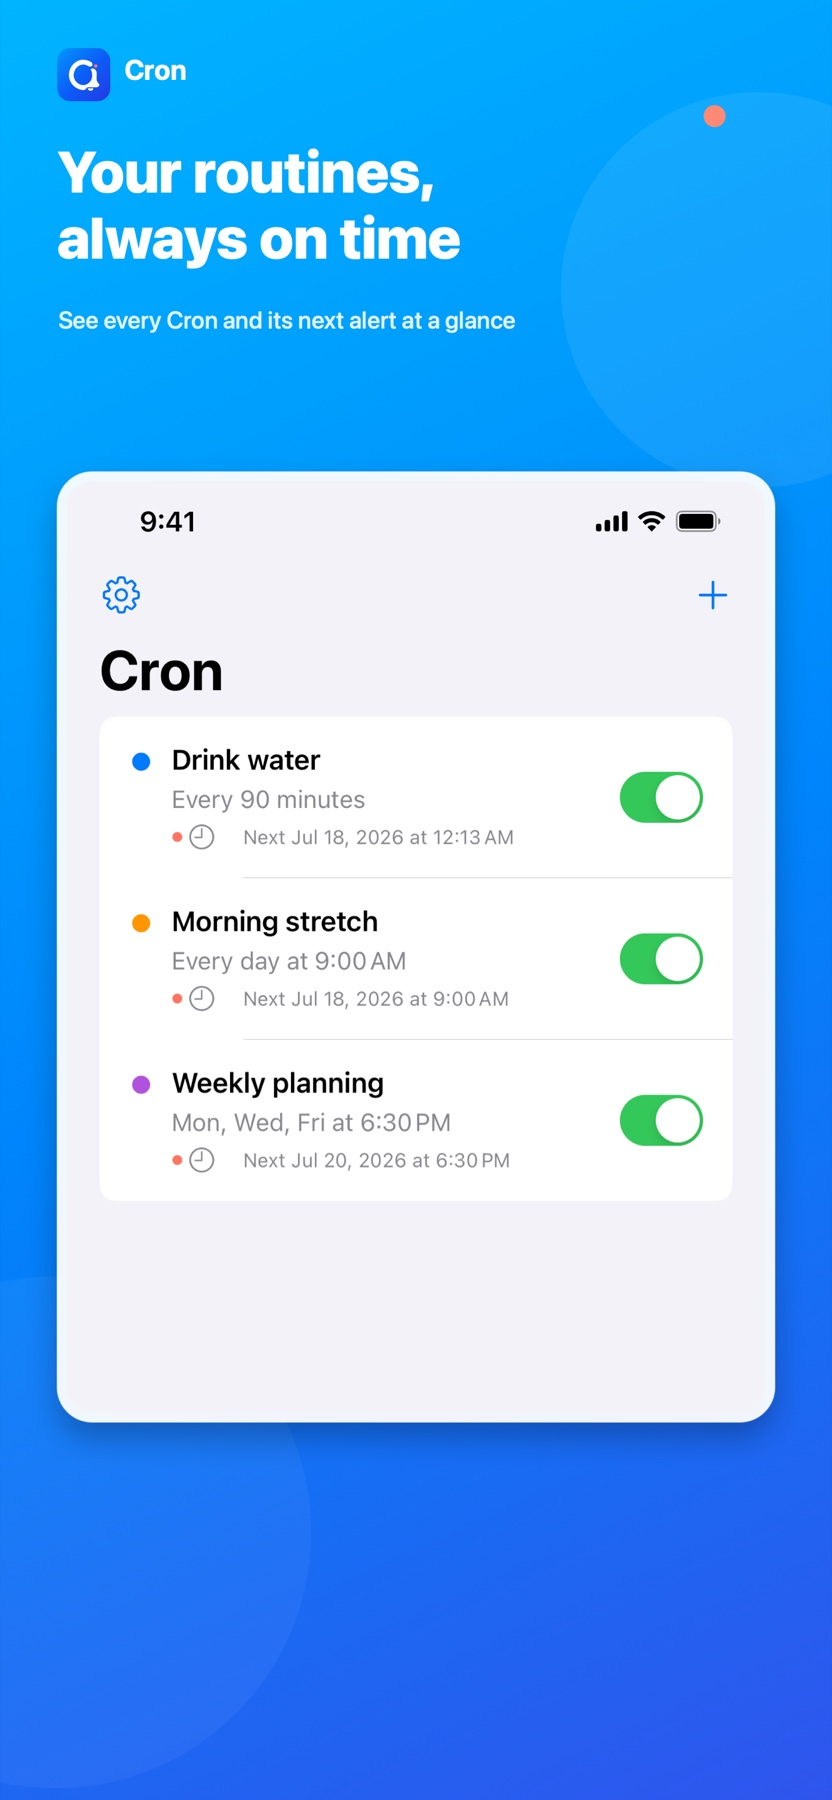
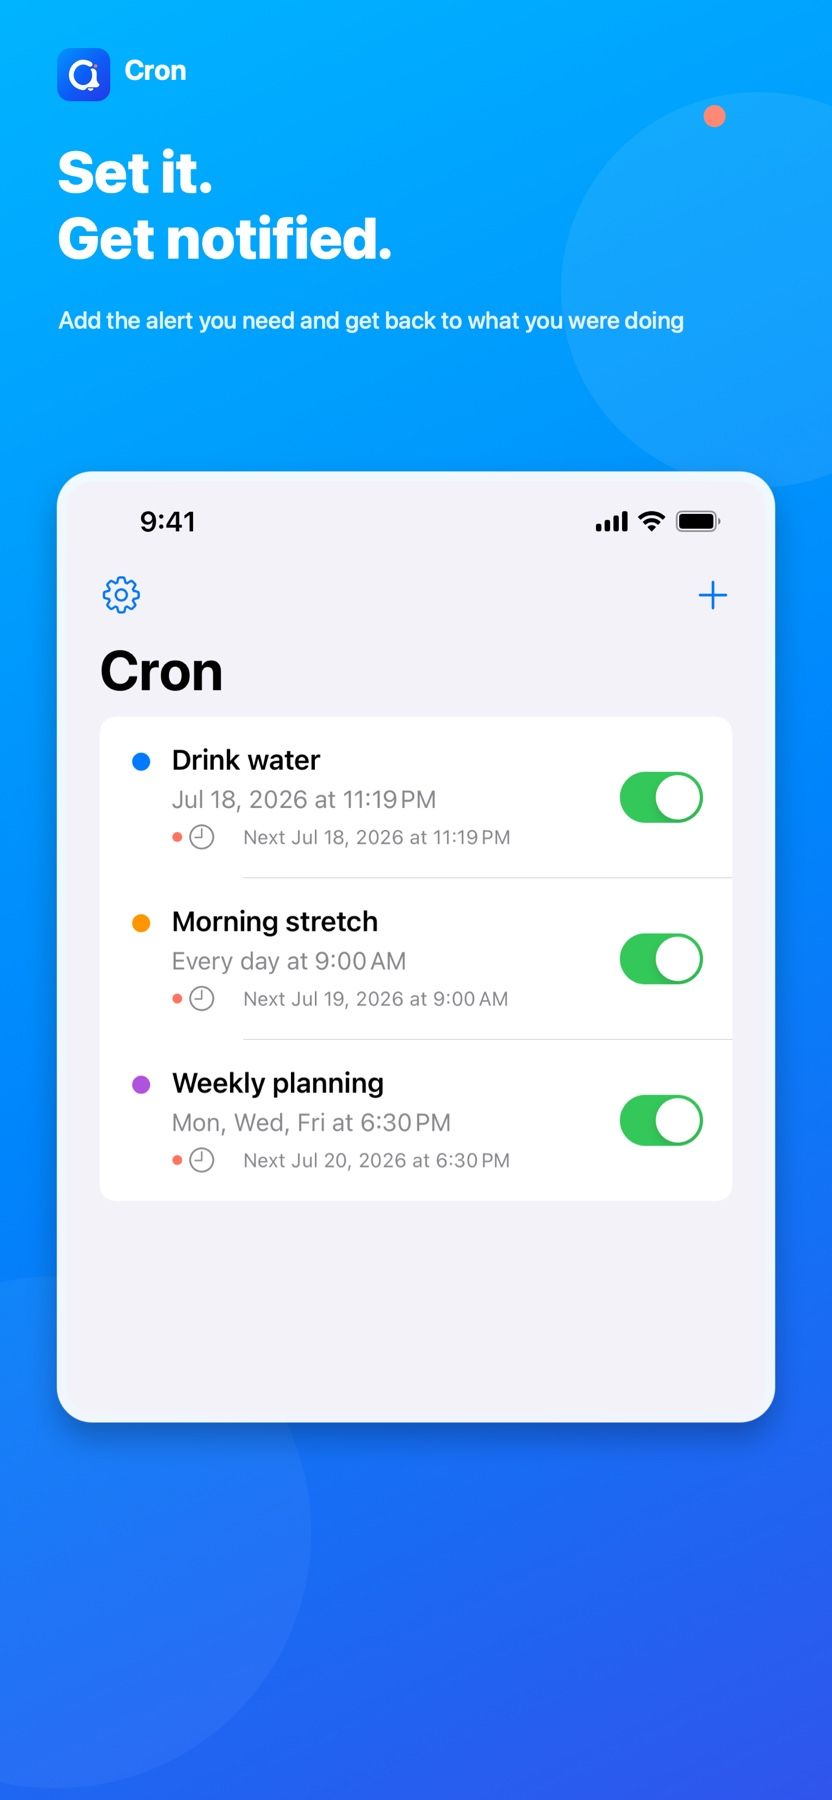
feat: clarify Cron simple alert messaging

Changed region(s): [[0.0625, 0.0622, 0.8125, 0.1867], [0.2188, 0.4356, 0.5312, 0.4667], [0.5625, 0.4356, 0.5938, 0.4667]]

diff --git a/cron/index.html b/cron/index.html
@@ -3,19 +3,19 @@
 <head>
   <meta charset="UTF-8">
   <meta name="viewport" content="width=device-width, initial-scale=1.0">
-  <meta name="description" content="Cron is a lightweight repeat reminder for interval, hourly, daily, weekday, and one-time alerts. See the next alert before you save.">
-  <meta name="keywords" content="repeat reminder, recurring alarm, routine timer, interval reminder, hourly reminder, daily reminder, weekday reminder">
+  <meta name="description" content="Cron is a simple reminder for iPhone. Add a name, choose a time, and get one clear alert. Repeat only when you need it.">
+  <meta name="keywords" content="simple reminder, one time reminder, notification reminder, alert app, iPhone reminder, recurring reminder">
   <meta name="theme-color" content="#076CF8">
   <meta property="og:type" content="website">
-  <meta property="og:title" content="Cron - Repeat what matters">
-  <meta property="og:description" content="Flexible repeat reminders, a clear next alert, and no account required.">
+  <meta property="og:title" content="Cron - Set it and get notified">
+  <meta property="og:description" content="Add a name and choose a time. Cron gives you one clear alert, with no task list or account required.">
   <meta property="og:url" content="https://lucidmaj7.github.io/cron/">
   <meta property="og:image" content="https://lucidmaj7.github.io/cron/images/og.png">
   <meta name="twitter:card" content="summary_large_image">
-  <meta name="twitter:title" content="Cron - Repeat what matters">
-  <meta name="twitter:description" content="Flexible repeat reminders, a clear next alert, and no account required.">
+  <meta name="twitter:title" content="Cron - Set it and get notified">
+  <meta name="twitter:description" content="Add a name and choose a time. Cron gives you one clear alert, with no task list or account required.">
   <meta name="twitter:image" content="https://lucidmaj7.github.io/cron/images/og.png">
-  <title>Cron - Repeat Reminder for iPhone</title>
+  <title>Cron - Simple Reminder for iPhone</title>
   <link rel="canonical" href="https://lucidmaj7.github.io/cron/">
   <link rel="icon" href="images/icon.png">
   <link rel="apple-touch-icon" href="images/icon.png">
@@ -30,7 +30,7 @@
     "name": "Cron",
     "operatingSystem": "iOS 15.0 or later",
     "applicationCategory": "LifestyleApplication",
-    "description": "A lightweight repeat reminder for interval, hourly, daily, weekday, and one-time alerts.",
+    "description": "A simple iPhone reminder. Add a name, choose a time, and get one clear alert. Repeat only when needed.",
     "downloadUrl": "https://apps.apple.com/app/id1491910066",
     "offers": {
       "@type": "Offer",
@@ -59,9 +59,9 @@
             <img src="images/icon.png" alt="" width="64" height="64">
             <span>Cron for iPhone</span>
           </div>
-          <p class="cron-hero__eyebrow"><span aria-hidden="true"></span> Repeat reminder</p>
-          <h1 id="cron-title" class="cron-hero__title" data-kinetic>Repeat what matters.</h1>
-          <p class="cron-hero__tagline">Create dependable interval, hourly, daily, weekday, and one-time alerts. Cron keeps recurring routines focused and shows the exact next alert before you save.</p>
+          <p class="cron-hero__eyebrow"><span aria-hidden="true"></span> Simple alert</p>
+          <h1 id="cron-title" class="cron-hero__title" data-kinetic>Set it.<br>Get notified.</h1>
+          <p class="cron-hero__tagline">No task lists. No projects. Add a name, choose when, and Cron will notify you. Use it once, or repeat only when you need it.</p>
           <div class="cron-hero__actions">
             <a href="https://apps.apple.com/app/id1491910066" class="cron-btn cron-btn--primary" target="_blank" rel="noopener noreferrer">Download on the App Store</a>
             <a href="#features" class="cron-btn cron-btn--ghost">Explore features</a>
@@ -71,7 +71,7 @@
 
         <div class="cron-hero__visual" aria-label="Cron app preview">
           <div class="cron-phone">
-            <img src="images/cron-list.png" alt="Cron list showing interval, daily, and weekday reminders" width="1284" height="2778">
+            <img src="images/cron-list.png" alt="Cron editor showing a name, alert time, and exact next notification" width="1284" height="2778">
           </div>
         </div>
       </div>
@@ -79,36 +79,36 @@
 
     <section class="cron-facts" aria-label="Cron highlights">
       <ul class="cron-facts__inner" role="list">
-        <li><strong>5 ways</strong><span>to schedule</span></li>
+        <li><strong>3 quick steps</strong><span>name time save</span></li>
+        <li><strong>One clear alert</strong><span>right when needed</span></li>
         <li><strong>No account</strong><span>start immediately</span></li>
         <li><strong>On device</strong><span>your Cron details</span></li>
-        <li><strong>6 languages</strong><span>built in</span></li>
       </ul>
     </section>
 
     <section id="features" class="cron-features reveal" aria-labelledby="features-title">
       <div class="cron-section">
         <header class="cron-section__header">
-          <p class="cron-section__label">Flexible by default</p>
-          <h2 id="features-title">Your routine.<br>Your timing.</h2>
-          <p>Just enough control for repeat reminders, without turning every small routine into a project.</p>
+          <p class="cron-section__label">Focused by design</p>
+          <h2 id="features-title">One simple job.<br>Right on time.</h2>
+          <p>Cron gets a small but important thing out of your head, without turning it into another list to manage.</p>
         </header>
 
         <ul class="cron-feature-grid reveal--stagger" role="list">
           <li class="cron-feature-card">
-            <div class="cron-feature-card__mark" aria-hidden="true">90m</div>
-            <h3>Schedule your way</h3>
-            <p>Repeat at a fixed interval, every hour, every day, on selected weekdays, or just once.</p>
+            <div class="cron-feature-card__mark" aria-hidden="true">01</div>
+            <h3>Name the alert</h3>
+            <p>Write the short message you want to see when the notification arrives.</p>
           </li>
           <li class="cron-feature-card">
-            <div class="cron-feature-card__mark" aria-hidden="true">09:00</div>
-            <h3>Know what comes next</h3>
-            <p>Preview the exact next Cron before saving, then see every upcoming alert from the list.</p>
+            <div class="cron-feature-card__mark" aria-hidden="true">02</div>
+            <h3>Choose when</h3>
+            <p>Pick the time and confirm the exact next alert before you save.</p>
           </li>
           <li class="cron-feature-card">
-            <div class="cron-feature-card__mark cron-feature-card__mark--coral" aria-hidden="true">On</div>
-            <h3>Stay in control</h3>
-            <p>Pause, edit, recolor, or delete any Cron. Notification permission stays visible and easy to review.</p>
+            <div class="cron-feature-card__mark cron-feature-card__mark--coral" aria-hidden="true">03</div>
+            <h3>Get notified</h3>
+            <p>Use it once, or repeat by interval, day, or weekday only when the alert needs to come back.</p>
           </li>
         </ul>
       </div>
@@ -117,20 +117,20 @@
     <section class="cron-showcase" aria-labelledby="showcase-title">
       <div class="cron-section">
         <header class="cron-section__header cron-section__header--light reveal">
-          <p class="cron-section__label">Designed for clarity</p>
-          <h2 id="showcase-title">From idea to alert<br>in a few taps.</h2>
-          <p>Clear screens keep the schedule, the next alert, and the action you need in view.</p>
+          <p class="cron-section__label">Nothing extra</p>
+          <h2 id="showcase-title">From thought to alert<br>in a few taps.</h2>
+          <p>The actual screens keep the path short: add the alert, see when it will fire, and move on.</p>
         </header>
 
         <div class="cron-gallery" aria-label="Cron app screenshots">
           <figure class="reveal">
-            <img src="images/01-routines.jpg" alt="Cron list with the headline Your routines always on time" width="832" height="1800" loading="lazy">
+            <img src="images/01-routines.jpg" alt="Cron list with the headline Set it and get notified" width="832" height="1800" loading="lazy">
           </figure>
           <figure class="reveal">
-            <img src="images/02-repeat.jpg" alt="Daily Cron editor with flexible repeat settings" width="832" height="1800" loading="lazy">
+            <img src="images/02-repeat.jpg" alt="Cron editor showing the exact next alert" width="832" height="1800" loading="lazy">
           </figure>
           <figure class="reveal">
-            <img src="images/03-weekdays.jpg" alt="Weekday Cron editor with selected days" width="832" height="1800" loading="lazy">
+            <img src="images/03-weekdays.jpg" alt="Cron editor showing optional weekday repetition" width="832" height="1800" loading="lazy">
           </figure>
           <figure class="reveal">
             <img src="images/04-simple.jpg" alt="Cron empty state showing the simple first Cron experience" width="832" height="1800" loading="lazy">
@@ -143,22 +143,22 @@
       <div class="cron-section cron-flow__inner">
         <header class="cron-section__header">
           <p class="cron-section__label">A shorter path</p>
-          <h2 id="flow-title">Set it once.<br>Keep moving.</h2>
-          <p>Cron makes the next alert predictable before notification permission or background scheduling ever becomes a concern.</p>
+          <h2 id="flow-title">Three steps.<br>Then move on.</h2>
+          <p>Cron makes the next alert predictable, then stays out of your way until it is time to notify you.</p>
         </header>
 
         <ol class="cron-steps">
           <li>
             <span>01</span>
-            <div><h3>Name the routine</h3><p>Add an optional note and color so it is easy to recognize.</p></div>
+            <div><h3>Name the alert</h3><p>Write what you want Cron to remind you about.</p></div>
           </li>
           <li>
             <span>02</span>
-            <div><h3>Choose the repeat</h3><p>Pick the schedule that matches how the routine really happens.</p></div>
+            <div><h3>Choose the time</h3><p>Set one alert, or add repetition only when you need it.</p></div>
           </li>
           <li>
             <span>03</span>
-            <div><h3>Check the next Cron</h3><p>Confirm the exact date and time, then save with confidence.</p></div>
+            <div><h3>Save and get notified</h3><p>Confirm the exact date and time, save, and get back to your day.</p></div>
           </li>
         </ol>
       </div>
@@ -170,7 +170,7 @@
         <div>
           <p class="cron-section__label">Simple and private</p>
           <h2 id="privacy-title">No account required.</h2>
-          <p>Cron titles, notes, and schedules stay on your device. Core reminder features work offline, and Cron content is never used for advertising. Personalized ads are requested only within your privacy choices.</p>
+          <p>Cron titles, notes, and schedules stay on your device. Core alert features work offline, and Cron content is never used for advertising. Personalized ads are requested only within your privacy choices.</p>
         </div>
       </div>
     </section>
@@ -179,8 +179,8 @@
       <div class="cron-cta__inner">
         <img src="images/icon.png" alt="Cron app icon" width="112" height="112" loading="lazy">
         <p class="cron-section__label">Cron 2.0</p>
-        <h2 id="cta-title">Make repetition<br>feel lighter.</h2>
-        <p>Build the reminder once and get back to the routine that matters.</p>
+        <h2 id="cta-title">Choose a time.<br>Get back to life.</h2>
+        <p>Cron handles the alert without turning it into another project.</p>
         <a href="https://apps.apple.com/app/id1491910066" class="cron-btn cron-btn--primary" target="_blank" rel="noopener noreferrer">Download on the App Store</a>
       </div>
     </section>

diff --git a/index.html b/index.html
@@ -154,7 +154,7 @@
           <span class="app-showcase__number" aria-hidden="true">07</span>
           <div class="app-showcase__content">
             <h2 class="app-showcase__name">Cron</h2>
-            <p class="app-showcase__desc">Flexible repeat reminders with the next alert always in view.</p>
+            <p class="app-showcase__desc">Choose a time and get one clear alert. No list to manage.</p>
             <a href="cron/index.html" class="app-showcase__link">Explore</a>
           </div>
           <div class="app-showcase__visual">
